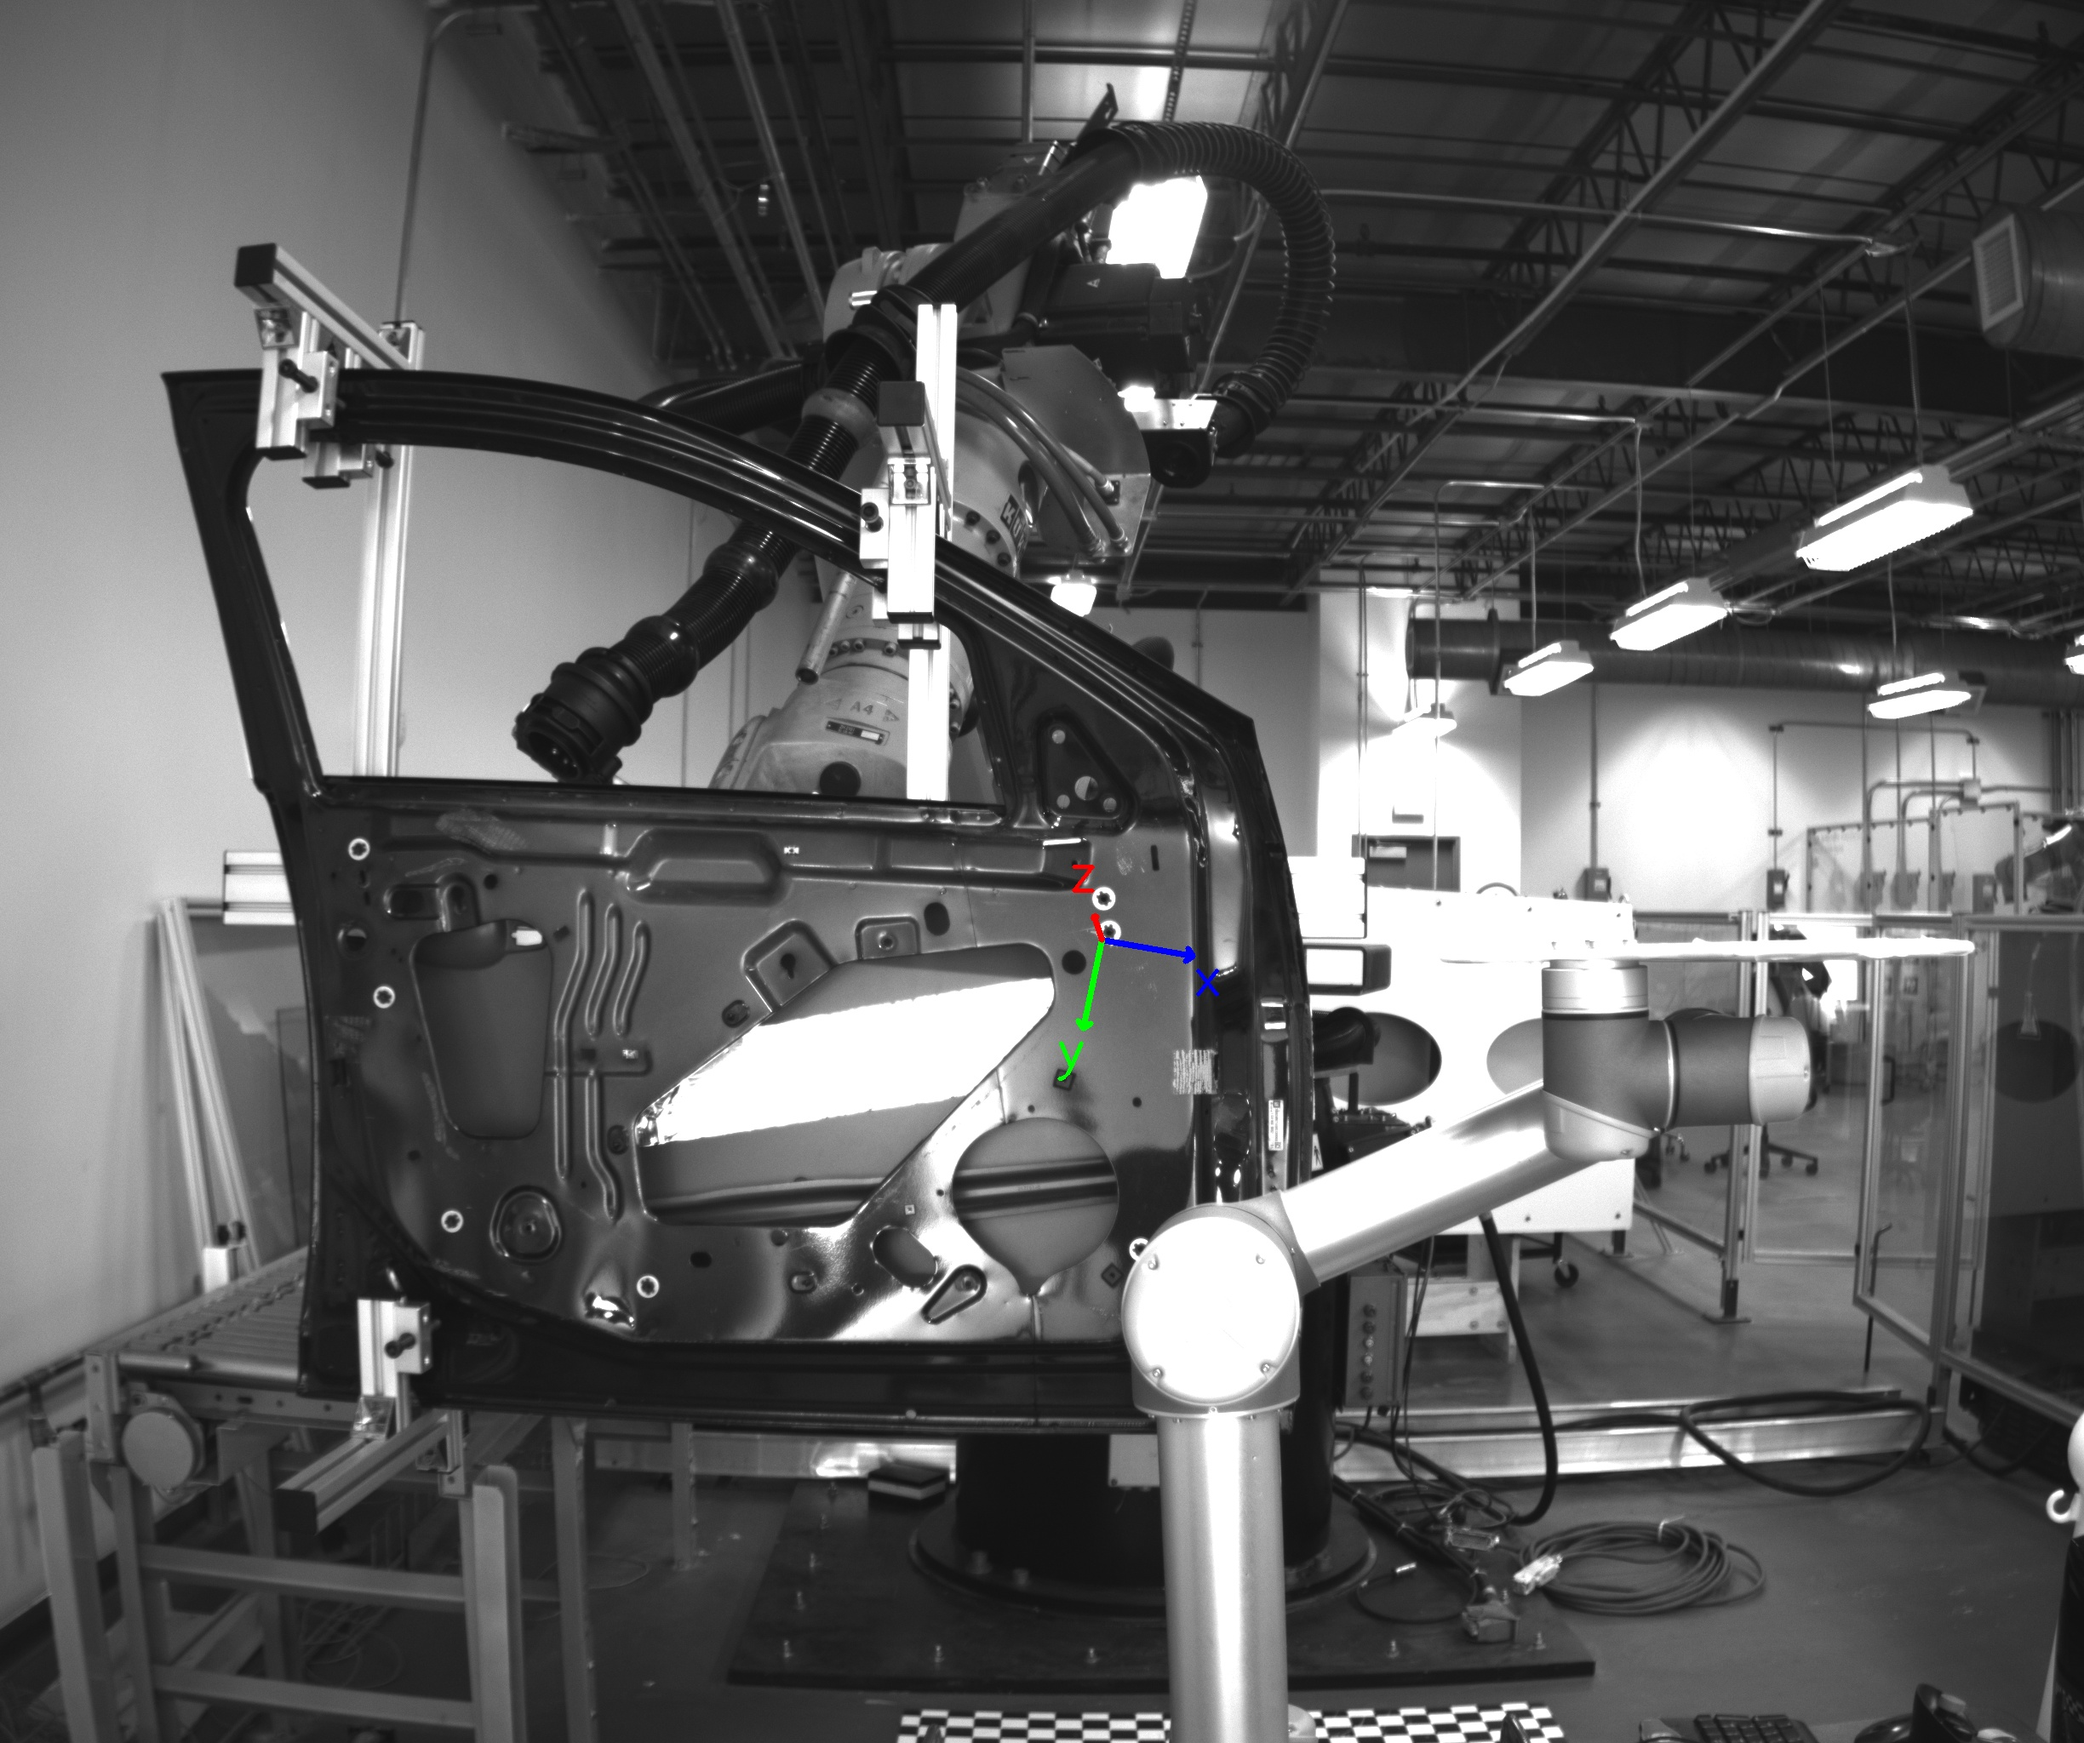
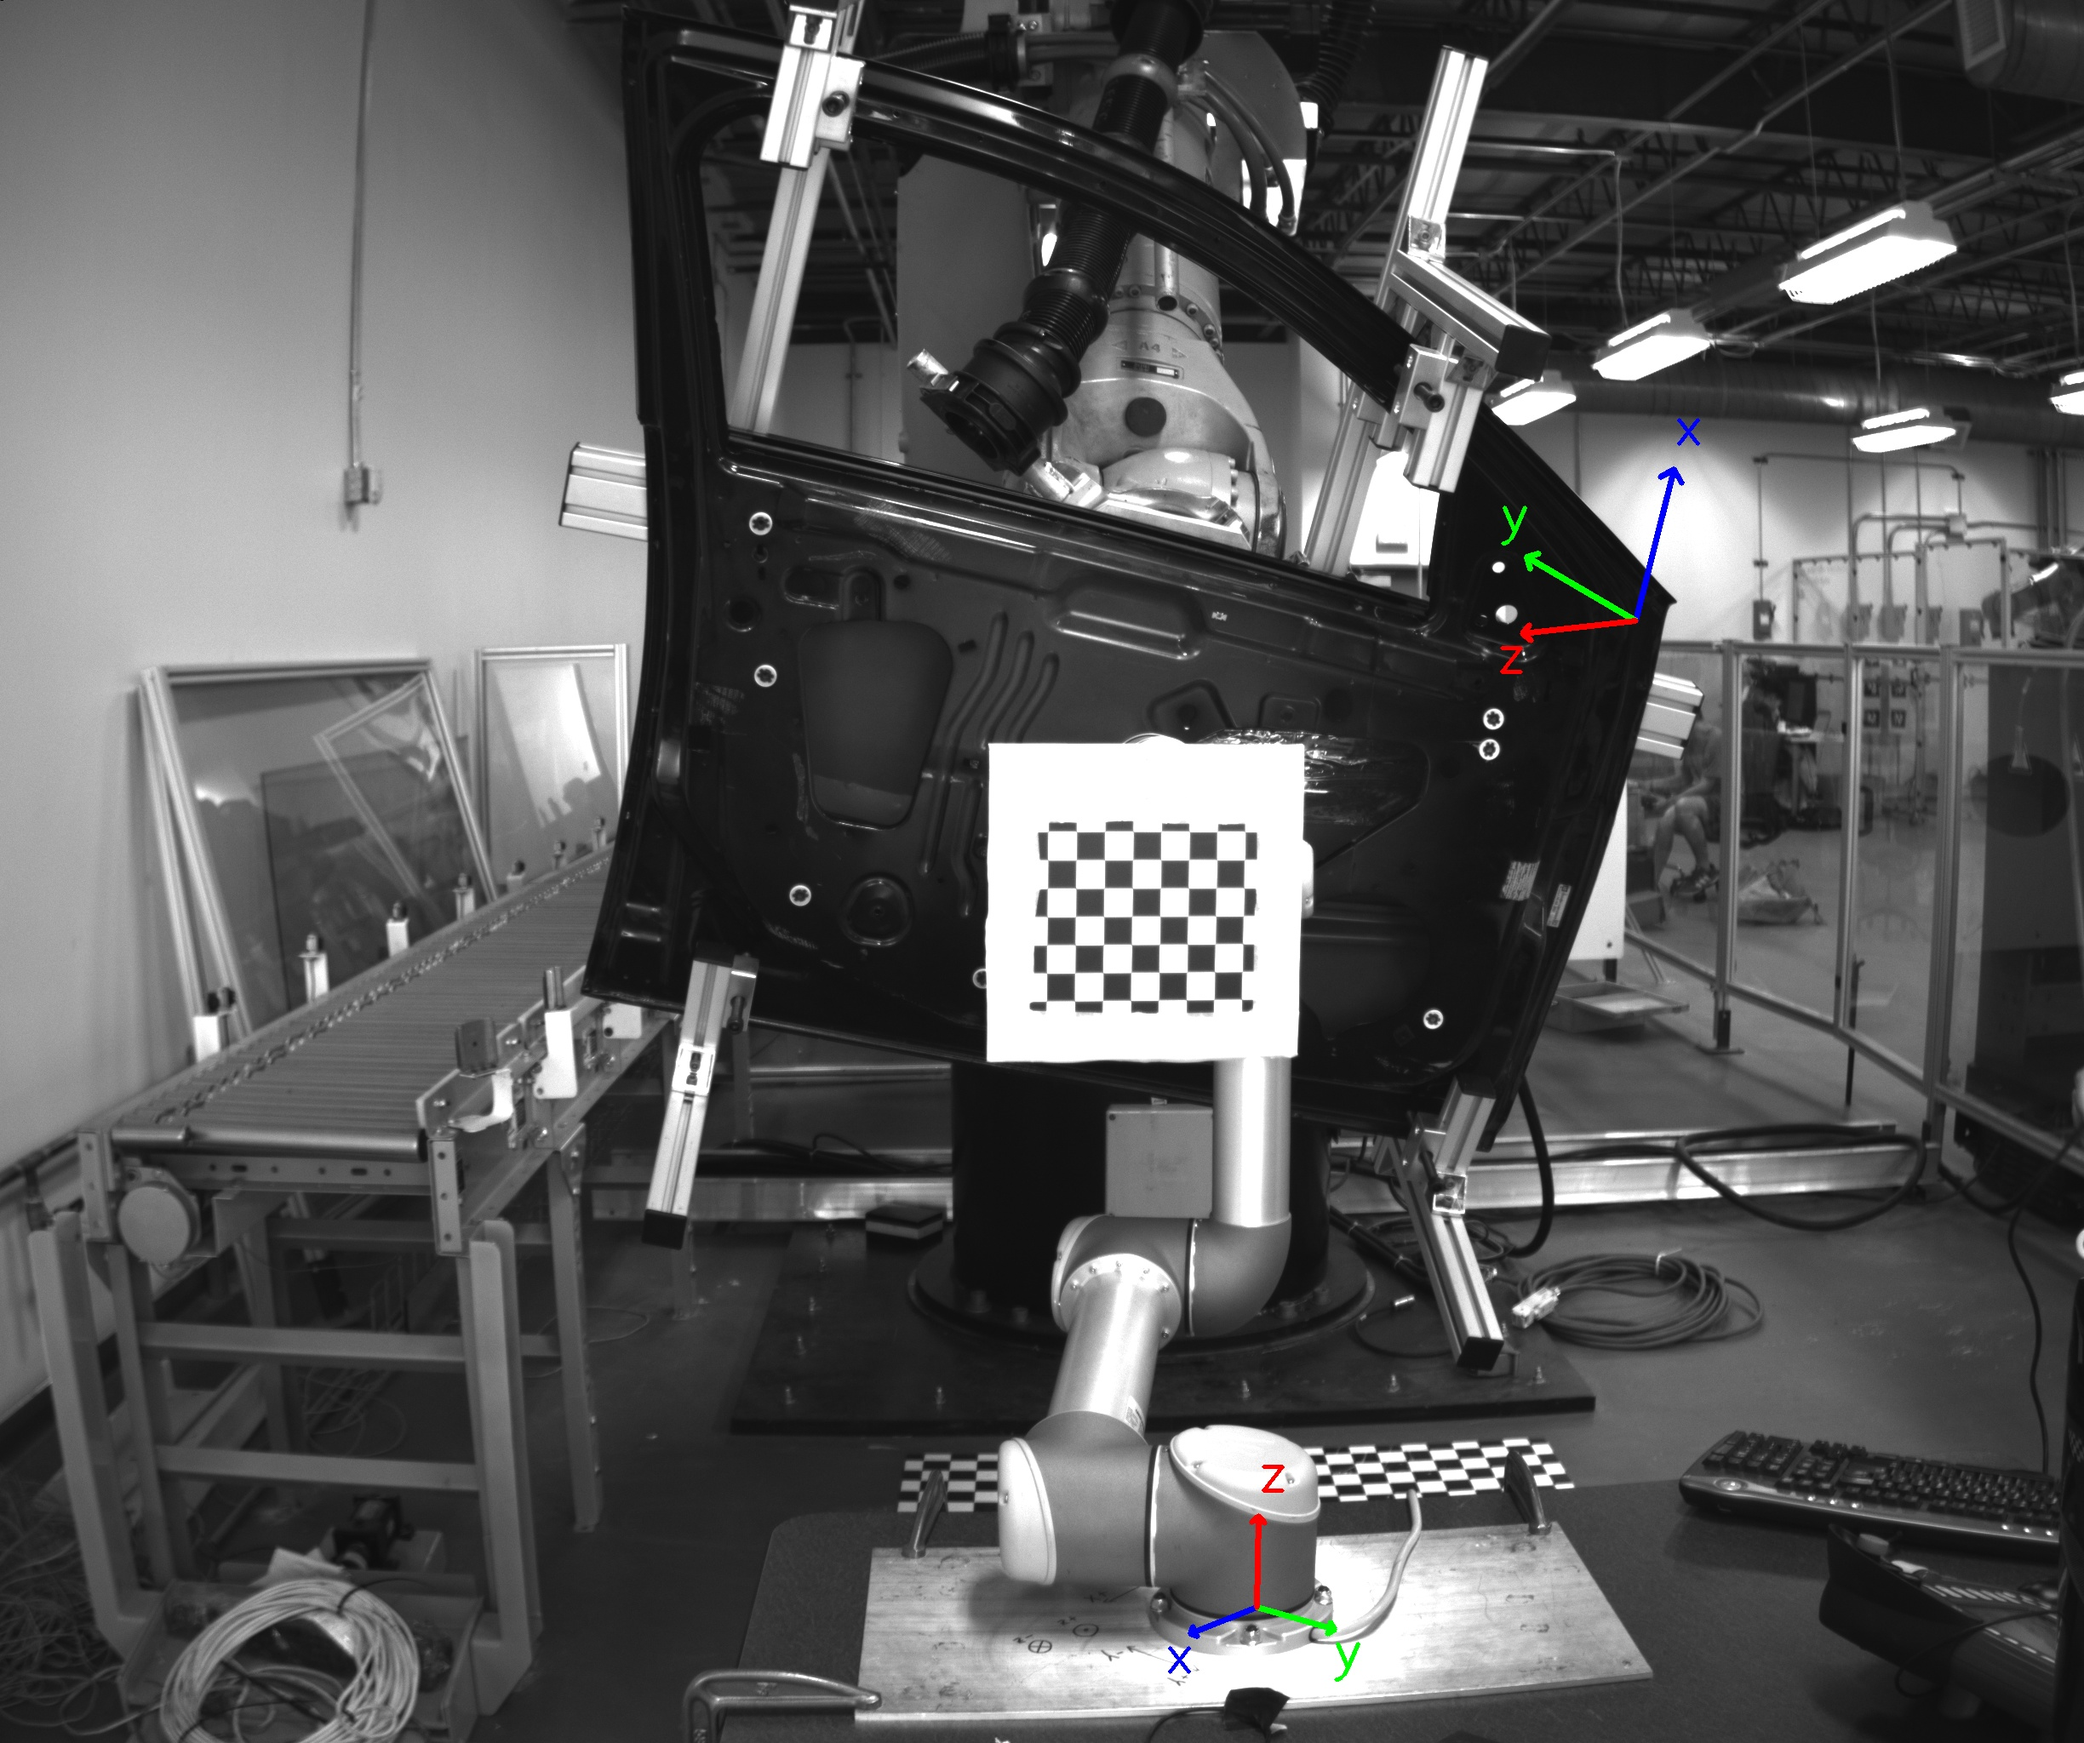
setup to plot multiple points

diff --git a/robot2cam_calibration/check_transformation.py b/robot2cam_calibration/check_transformation.py
@@ -69,10 +69,12 @@ def check_transformation(Rotm, Tvec, ImageFolder, ResultFolder, rows, cols, spac
                                 [0, 0, axis_length]]).reshape(-1, 3)
 
     number_found = 0
-
+    image_points = np.zeros((Rotm.shape[0], 4, 1, 2))
     # Change rotation matrix into rotation vector
-    Rvec, jac = cv2.Rodrigues(Rotm)
-
+    for i in range(Rotm.shape[0]):
+        rvec, jac = cv2.Rodrigues(Rotm[i])
+        image_points[i], jac = cv2.projectPoints(axis, rvec, Tvec[i], intrinsic,
+                                                 distortion)
     for image_file in file_names:
         image_file = os.path.join(target_directory, image_file)
 
@@ -81,11 +83,11 @@ def check_transformation(Rotm, Tvec, ImageFolder, ResultFolder, rows, cols, spac
 
         # If the image_file isn't an image, move on
         if img is not None:
-            image_points, jac = cv2.projectPoints(axis, Rvec, Tvec,
-                                             intrinsic,
-                                             distortion)
+            
             img = cv2.cvtColor(img, cv2.COLOR_GRAY2RGB)
-            img = track_grid.draw_axes(image_raw=img, corners=image_points[0], image_points=image_points[1:])
+            for i in range(image_points.shape[0]):
+                img = track_grid.draw_axes(image_raw=img, corners=image_points[i][0],
+                                           image_points=image_points[i][1:])
             # for i in range(0,len(image_points)):
             #     cv2.circle(img,tuple(image_points[i]),3,[100,200,100])
             cv2.imwrite(os.path.join(ResultFolder, "result" + str(number_found) + ".jpg"), img)
@@ -107,8 +109,30 @@ def check_transformation(Rotm, Tvec, ImageFolder, ResultFolder, rows, cols, spac
 # [0.183 0.957 -0.223 0.081]
 # [0.106 0.206 0.973 2.221]
 # [0.000 0.000 0.000 1.000]
-Rotm = np.matrix([[0.977, -0.202, -0.063],[0.183, 0.957, -0.223],[0.106, 0.206, 0.973]])
-Tvec = np.array([0.047, 0.081, 2.221])
+# Rotm = np.matrix([[0.977, -0.202, -0.063],[0.183, 0.957, -0.223],[0.106, 0.206, 0.973]])
+# Tvec = np.array([0.047, 0.081, 2.221])
+
+# with axis angle
+#Rotm = np.matrix([[-0.0010,   -0.9984,   -0.0558],[0.9995,    0.0009,   -0.0328],[0.0328,   -0.0558,    0.9979]])
+#Tvec = np.array([0.0554,   -0.2315,   -0.0225])
+
+# manual guess
+#Rotm = np.matrix([[-0.707,   0.707,   0.0],[0.0,   0.0,   -1.0],[-0.707,   -0.707,    0.0]])
+#Tvec = np.array([0.1,   0.35,   1.0])
+
+# measure manual guess
+# Rotm = np.matrix([[1.0,0.0,0.0],[0.0,1.0,0.0],[0.0,0.0,1.0]])
+# Rotm = np.matrix([[-0.707,   0.707,   0.0],[0.0,   0.0,   -1.0],[-0.707,   -0.707,    0.0]])
+# Tvec = np.array([0.2,   0.75,   2.0])
+
+Rotm = np.array([
+    [[-0.707, 0.707, 0.0], [0.0, 0.0, -1.0], [-0.707, -0.707, 0.0]],
+    [[0.1419, -0.5214, -0.8412], [-0.8623, -0.4826, 0.1536 ], [-0.4861, 0.7036, -0.5181]]
+])
+Tvec = np.array([
+    [0.2, 0.75, 2.0],
+    [0.3517,   -0.1479,   1.2312]
+])
 
 
 ImageFolder = 'Images'

diff --git a/Tracking_Tests/CalCamArm.m b/Tracking_Tests/CalCamArm.m
@@ -190,11 +190,27 @@ end
 [points, boardSize, imagesUsed] = detectCheckerboardPoints(imageFiles);
 if(sum(imagesUsed) == 0)
     error('No checkerboards were found in the images');
-elseif(sum(imagesUsed) < 10)
-    warning(['only %i checkerboards found.\n',...
-        '10 images is the minimum number of boards recommended for an accurate calibration (though more is better, orignal calibration used 50+)\n',...
-        'Check your images and keep in mind, lighting, occlusions and backgrounds with roughly checkered patterns'], tValid);
+% elseif(sum(imagesUsed) < 10)
+%     warning(['only %i checkerboards found.\n',...
+%         '10 images is the minimum number of boards recommended for an accurate calibration (though more is better, orignal calibration used 50+)\n',...
+%         'Check your images and keep in mind, lighting, occlusions and backgrounds with roughly checkered patterns'], tValid);
 end
+
+% if(verbose)
+%     fprintf('Saving chessboard images\n');
+% end
+% mkdir('ChessboardsFound')
+% for i = find(imagesUsed)'
+%    f = figure(1);
+%    imshow(imread(imageFiles{i})); 
+%    hold on; 
+%    plot(points(:,1,i), points(:,2,i), 'ro');
+%    hold off
+%    saveas(f, sprintf('ChessboardsFound/chessboard%i.png',i))
+% end
+% if(verbose)
+%     fprintf('Done saving chessboard images\n');
+% end
 
 %% Process arm poses
 

diff --git a/Tracking_Tests/convert_rob_data.m b/Tracking_Tests/convert_rob_data.m
@@ -10,11 +10,19 @@ parsed_json=loadjson(scanned_file);
 tcp2robot=parsed_json.tcp2robot;
 Rmatrices=zeros(4,4,length(tcp2robot));
 for i=1:size(tcp2robot,1)
-    rmag=sqrt(tcp2robot(i,4)^2+tcp2robot(i,5)^2+tcp2robot(i,6)^2);
-    rotation=rotm2tform(vrrotvec2mat([tcp2robot(i,4) tcp2robot(i,5) tcp2robot(i,6) rmag]));
+%     rmag=sqrt(tcp2robot(i,4)^2+tcp2robot(i,5)^2+tcp2robot(i,6)^2);
+%     rotation=rotm2tform(vrrotvec2mat([tcp2robot(i,4) tcp2robot(i,5) tcp2robot(i,6) rmag]));
+%     xrotation=axang2tform([1 0 0 tcp2robot(i,4)]);
+%     yrotation=axang2tform([0 1 0 tcp2robot(i,5)]);
+%     zrotation=axang2tform([0 0 1 tcp2robot(i,6)]);
+    mag_aa = sqrt(tcp2robot(i,4)^2+tcp2robot(i,5)^2+tcp2robot(i,6)^2);
+    norm_aa = [tcp2robot(i,4)^2 tcp2robot(i,5)^2 tcp2robot(i,6)^2]./mag_aa;
+    rotm = vrrotvec2mat([norm_aa mag_aa]);
+    rotation = rotm2tform(rotm);
+%     rotation=xrotation*yrotation*zrotation;
     translation=trvec2tform([tcp2robot(i,1) tcp2robot(i,2) tcp2robot(i,3)]);
-    %Rmatrices(1:4,1:4,i)=translation*rotation;
-    Rmatrices(1:4,1:4,i)=rotation*translation;
+    Rmatrices(1:4,1:4,i)=translation*rotation;
+    %Rmatrices(1:4,1:4,i)=rotation*translation;
 end
 fclose(fid);
 

diff --git a/robot2cam_calibration/track_grid.py b/robot2cam_calibration/track_grid.py
@@ -214,6 +214,8 @@ def draw_axes(image_raw, corners, image_points):
     Returns: numpy.ndarray Image with the axes drawn on it.
 
     """
+    corners = np.rint(corners).astype('int')
+    image_points = np.rint(image_points).astype('int')
     corner = tuple(corners[0].ravel())
     image = image_raw.copy()
     temp = cv2.arrowedLine(image, corner, tuple(image_points[0].ravel()),
